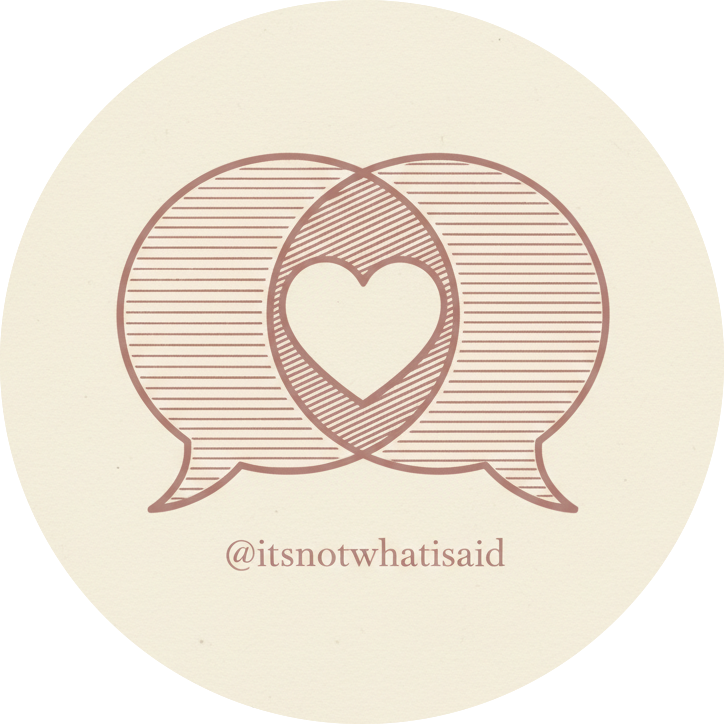
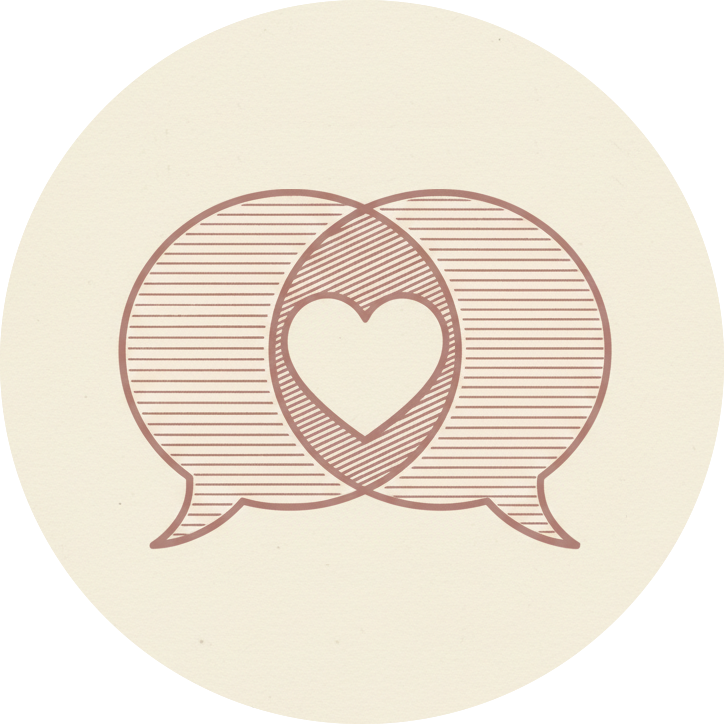
fix watermark

Changed region(s): [[0.1519, 0.2127, 0.8508, 0.7901]]

diff --git a/src/generators/watermark.ts b/src/generators/watermark.ts
@@ -2,22 +2,25 @@
 
 import { Canvas, loadImage, Image } from 'npm:@napi-rs/canvas@^0.1.52';
 import { join } from 'https://deno.land/std@0.224.0/path/mod.ts';
-import { getWatermarkPath, AccountIdentifier } from '../config/watermarks.ts';
+import {
+  getWatermarkConfig,
+  AccountIdentifier,
+} from '../config/watermarks.ts';
 
 export interface WatermarkOptions {
   targetImagePath: string;
   account?: AccountIdentifier; // Account identifier for watermark selection (default: 'default')
   watermarkPath?: string; // Direct watermark path (overrides account if provided)
   outputPath?: string;
-  opacity?: number;
-  scale?: number; // Scale factor for watermark (0-1), default 0.15 (15% of image width)
-  padding?: number; // Padding from edges in pixels, default 20
-  horizontalOffset?: number; // Additional horizontal offset (positive = right, negative = left), default 0
-  verticalOffset?: number; // Additional vertical offset (positive = down, negative = up), default 0
+  opacity?: number; // Optional override for opacity
+  scale?: number; // Optional override for scale
+  padding?: number; // Optional override for padding
+  horizontalOffset?: number; // Optional override for horizontal offset
+  verticalOffset?: number; // Optional override for vertical offset
 }
 
 /**
- * Add a watermark to an image
+ * Add a watermark to an image with high-quality rendering
  */
 export async function generateWatermark(
   options: WatermarkOptions,
@@ -27,15 +30,22 @@ export async function generateWatermark(
     account = 'default',
     watermarkPath,
     outputPath = 'watermarked_image.jpg',
-    opacity = 1.0,
-    scale = 0.15,
-    padding = 20,
-    horizontalOffset = 0,
-    verticalOffset = 0,
   } = options;
 
+  // Get watermark configuration for the account
+  const config = getWatermarkConfig(account);
+
   // Use direct watermarkPath if provided, otherwise use account mapping
-  const finalWatermarkPath = watermarkPath ?? getWatermarkPath(account);
+  const finalWatermarkPath = watermarkPath ?? config.path;
+
+  // Use provided options or fall back to config defaults
+  const opacity = options.opacity ?? config.position.opacity;
+  const scale = options.scale ?? config.position.scale;
+  const padding = options.padding ?? config.position.padding;
+  const horizontalOffset =
+    options.horizontalOffset ?? config.position.horizontalOffset;
+  const verticalOffset =
+    options.verticalOffset ?? config.position.verticalOffset;
 
   // Load the target image
   const targetImage = await loadImage(targetImagePath);
@@ -45,6 +55,10 @@ export async function generateWatermark(
   // Create canvas with target image dimensions
   const canvas = new Canvas(width, height);
   const ctx = canvas.getContext('2d');
+
+  // Enable high-quality image smoothing
+  ctx.imageSmoothingEnabled = true;
+  ctx.imageSmoothingQuality = 'high';
 
   // Draw the target image
   ctx.drawImage(targetImage, 0, 0, width, height);
@@ -64,13 +78,15 @@ export async function generateWatermark(
   const x = width - watermarkWidth - padding + horizontalOffset;
   const y = height - watermarkHeight - padding + verticalOffset;
 
-  // Set opacity and draw watermark
+  // Set opacity and draw watermark with high quality
   ctx.globalAlpha = opacity;
+  ctx.imageSmoothingEnabled = true;
+  ctx.imageSmoothingQuality = 'high';
   ctx.drawImage(watermark, x, y, watermarkWidth, watermarkHeight);
   ctx.globalAlpha = 1.0;
 
-  // Export as JPEG
-  const outputBuffer = canvas.toBuffer('image/jpeg', 95);
+  // Export as JPEG with maximum quality (required by Instagram)
+  const outputBuffer = canvas.toBuffer('image/jpeg', 100);
   await Deno.writeFile(outputPath, outputBuffer);
 
   return outputPath;

diff --git a/src/config/watermarks.ts b/src/config/watermarks.ts
@@ -1,19 +1,74 @@
-// Central configuration for watermark paths by account
+// Central configuration for watermark paths and positioning by account
 import { join } from 'https://deno.land/std@0.224.0/path/mod.ts';
 
 /**
- * Account identifiers mapped to their watermark image paths
+ * Positioning configuration for watermarks
  */
-export const WATERMARK_PATHS = {
-  default: join(Deno.cwd(), 'assets', 'images', 'watermark.png'),
-  compounding_wisdom: join(Deno.cwd(), 'assets', 'images', 'watermark_compounding_wisdom.png'),
-  itsnotwhatisaid: join(Deno.cwd(), 'assets', 'images', 'watermark_itsnotwhatisaid.png'),
+export interface WatermarkPositionConfig {
+  scale: number; // Scale factor for watermark (0-1), percentage of image width
+  padding: number; // Padding from edges in pixels
+  horizontalOffset: number; // Additional horizontal offset (positive = right, negative = left)
+  verticalOffset: number; // Additional vertical offset (positive = down, negative = up)
+  opacity: number; // Opacity (0-1)
+}
+
+/**
+ * Watermark configuration including path and positioning
+ */
+export interface WatermarkConfig {
+  path: string;
+  position: WatermarkPositionConfig;
+}
+
+/**
+ * Account identifiers mapped to their watermark configurations
+ */
+export const WATERMARK_CONFIGS: Record<string, WatermarkConfig> = {
+  default: {
+    path: join(Deno.cwd(), 'assets', 'images', 'watermark.png'),
+    position: {
+      scale: 0.13,
+      padding: 0,
+      horizontalOffset: 0,
+      verticalOffset: 0,
+      opacity: 1.0,
+    },
+  },
+  compounding_wisdom: {
+    path: join(Deno.cwd(), 'assets', 'images', 'watermark_compounding_wisdom.png'),
+    position: {
+      scale: 0.13,
+      padding: 0,
+      horizontalOffset: 0,
+      verticalOffset: 0,
+      opacity: 1.0,
+    },
+  },
+  itsnotwhatisaid: {
+    path: join(Deno.cwd(), 'assets', 'images', 'watermark_itsnotwhatisaid.png'),
+    position: {
+      scale: 0.12,
+      padding: 30,
+      horizontalOffset: 10,
+      verticalOffset: 0,
+      opacity: 1.0,
+    },
+  },
 } as const;
 
 /**
  * Valid account identifiers
  */
-export type AccountIdentifier = keyof typeof WATERMARK_PATHS;
+export type AccountIdentifier = keyof typeof WATERMARK_CONFIGS;
+
+/**
+ * Get the watermark configuration for a given account identifier
+ * @param account - The account identifier (defaults to 'default')
+ * @returns The watermark configuration including path and positioning
+ */
+export function getWatermarkConfig(account: AccountIdentifier = 'default'): WatermarkConfig {
+  return WATERMARK_CONFIGS[account];
+}
 
 /**
  * Get the watermark path for a given account identifier
@@ -21,13 +76,13 @@ export type AccountIdentifier = keyof typeof WATERMARK_PATHS;
  * @returns The full path to the watermark image
  */
 export function getWatermarkPath(account: AccountIdentifier = 'default'): string {
-  return WATERMARK_PATHS[account];
+  return WATERMARK_CONFIGS[account].path;
 }
 
 /**
  * Check if an account identifier is valid
  */
 export function isValidAccount(account: string): account is AccountIdentifier {
-  return account in WATERMARK_PATHS;
+  return account in WATERMARK_CONFIGS;
 }
 

diff --git a/src/handlers/generateWatermark.ts b/src/handlers/generateWatermark.ts
@@ -42,7 +42,7 @@ export async function handleGenerateWatermark(req: Request): Promise<Response> {
     // Validate account if provided
     if (inputData.account && !isValidAccount(inputData.account)) {
       return errorResponse(
-        `Invalid account identifier. Valid options: 'default', 'compounding_wisdom'`,
+        `Invalid account identifier. Valid options: 'default', 'compounding_wisdom', 'itsnotwhatisaid'`,
         { received: inputData.account },
         400
       );
@@ -62,12 +62,13 @@ export async function handleGenerateWatermark(req: Request): Promise<Response> {
     console.log("✅ Saved temporary input image");
 
     // Prepare generator options
+    // Optional overrides for positioning, otherwise uses config defaults
     const generatorInput = {
       targetImagePath: tempInputPath,
       account: inputData.account, // Will use 'default' if not provided
-      opacity: inputData.opacity ?? 1.0,
-      scale: inputData.scale ?? 0.13,
-      padding: inputData.padding ?? 0,
+      opacity: inputData.opacity, // Optional override
+      scale: inputData.scale, // Optional override
+      padding: inputData.padding, // Optional override
       outputPath: "watermarked_output.jpg",
     };
 

diff --git a/docs/WATERMARK.md b/docs/WATERMARK.md
@@ -25,27 +25,32 @@ The endpoint accepts JSON with the following structure:
 ### Optional Fields
 
 - **account** (string): Account identifier to select which watermark to use. Default: `"default"`
-  - Available options: `"default"`, `"compounding_wisdom"`
-- **opacity** (number): Watermark opacity from 0 (transparent) to 1 (opaque). Default: `1.0` (fully opaque)
-- **scale** (number): Watermark size relative to image width from 0 to 1. Default: `0.12` (12% of image width)
-- **padding** (number): Distance from image edges in pixels. Default: `10`
+  - Available options: `"default"`, `"compounding_wisdom"`, `"itsnotwhatisaid"`
+  - Each account has its own pre-configured positioning settings
+- **opacity** (number): Watermark opacity from 0 (transparent) to 1 (opaque). Overrides account default if provided.
+- **scale** (number): Watermark size relative to image width from 0 to 1. Overrides account default if provided.
+- **padding** (number): Distance from image edges in pixels. Overrides account default if provided.
 
 ## Response
 
-Returns a JPEG image with the watermark applied in the bottom-right corner.
+Returns a **JPEG image** (100% quality, Instagram-compatible) with the watermark applied in the bottom-right corner.
 
 ## Watermark Configuration
 
-The system supports multiple watermark images, each mapped to an account identifier:
+The system supports multiple watermark images, each mapped to an account identifier with its own positioning configuration:
 
-| Account ID | Watermark File |
-|------------|----------------|
-| `default` | `assets/images/watermark.png` |
-| `compounding_wisdom` | `assets/images/watermark_compounding_wisdom.png` |
+| Account ID | Watermark File | Default Scale | Default Padding |
+|------------|----------------|---------------|-----------------|
+| `default` | `assets/images/watermark.png` | 0.18 (18%) | 15px |
+| `compounding_wisdom` | `assets/images/watermark_compounding_wisdom.png` | 0.20 (20%) | 20px |
+| `itsnotwhatisaid` | `assets/images/watermark_itsnotwhatisaid.png` | 0.17 (17%) | 15px |
 
-The watermark configuration is centrally managed in `src/config/watermarks.ts`, making it easy to add new account-specific watermarks.
+The watermark configuration is centrally managed in `src/config/watermarks.ts`, where each account has:
+- **Watermark image path**
+- **Default positioning** (scale, padding, horizontal/vertical offsets)
+- **Default opacity**
 
-The watermark is positioned in the **bottom-right corner** of the target image with the specified padding.
+The watermark is positioned in the **bottom-right corner** of the target image using account-specific defaults, which can be overridden per request.
 
 ## Example Usage
 
@@ -183,9 +188,11 @@ make docker-test-all
 ## Technical Details
 
 - **Input Format**: Base64-encoded image data (supports JPEG, PNG, WebP, etc.)
-- **Output Format**: JPEG with 95% quality
+- **Output Format**: JPEG with 100% quality (Instagram-compatible)
+- **Image Smoothing**: High-quality image smoothing enabled for best visual results
 - **Watermark Position**: Bottom-right corner
 - **Aspect Ratio**: Watermark maintains original aspect ratio
+- **Scaling**: Fully adjustable per account, or use `useOriginalSize` for no scaling
 - **Performance**: Processing time depends on image size; typical images process in < 1 second
 
 ## Error Handling
@@ -212,10 +219,28 @@ To add a new account-specific watermark:
 
 2. **Update the configuration** in `src/config/watermarks.ts`:
    ```typescript
-   export const WATERMARK_PATHS = {
-     default: join(Deno.cwd(), 'assets', 'images', 'watermark.png'),
-     compounding_wisdom: join(Deno.cwd(), 'assets', 'images', 'watermark_compounding_wisdom.png'),
-     my_account: join(Deno.cwd(), 'assets', 'images', 'watermark_my_account.png'), // Add this line
+   export const WATERMARK_CONFIGS: Record<string, WatermarkConfig> = {
+     default: {
+       path: join(Deno.cwd(), 'assets', 'images', 'watermark.png'),
+       position: {
+         scale: 0.13,
+         padding: 0,
+         horizontalOffset: 0,
+         verticalOffset: 0,
+         opacity: 1.0,
+       },
+     },
+     // ... other accounts ...
+     my_account: {
+       path: join(Deno.cwd(), 'assets', 'images', 'watermark_my_account.png'),
+       position: {
+         scale: 0.15,           // Watermark size (15% of image width)
+         padding: 20,           // Distance from edges
+         horizontalOffset: 0,   // Additional horizontal adjustment
+         verticalOffset: 0,     // Additional vertical adjustment
+         opacity: 1.0,          // Fully opaque
+       },
+     },
    } as const;
    ```
 
@@ -227,7 +252,7 @@ To add a new account-specific watermark:
    }
    ```
 
-The system automatically validates account identifiers and provides clear error messages for invalid accounts.
+The system automatically validates account identifiers and provides clear error messages for invalid accounts. Each account can have completely different positioning settings tailored to the specific watermark design.
 
 ## Tips
 
